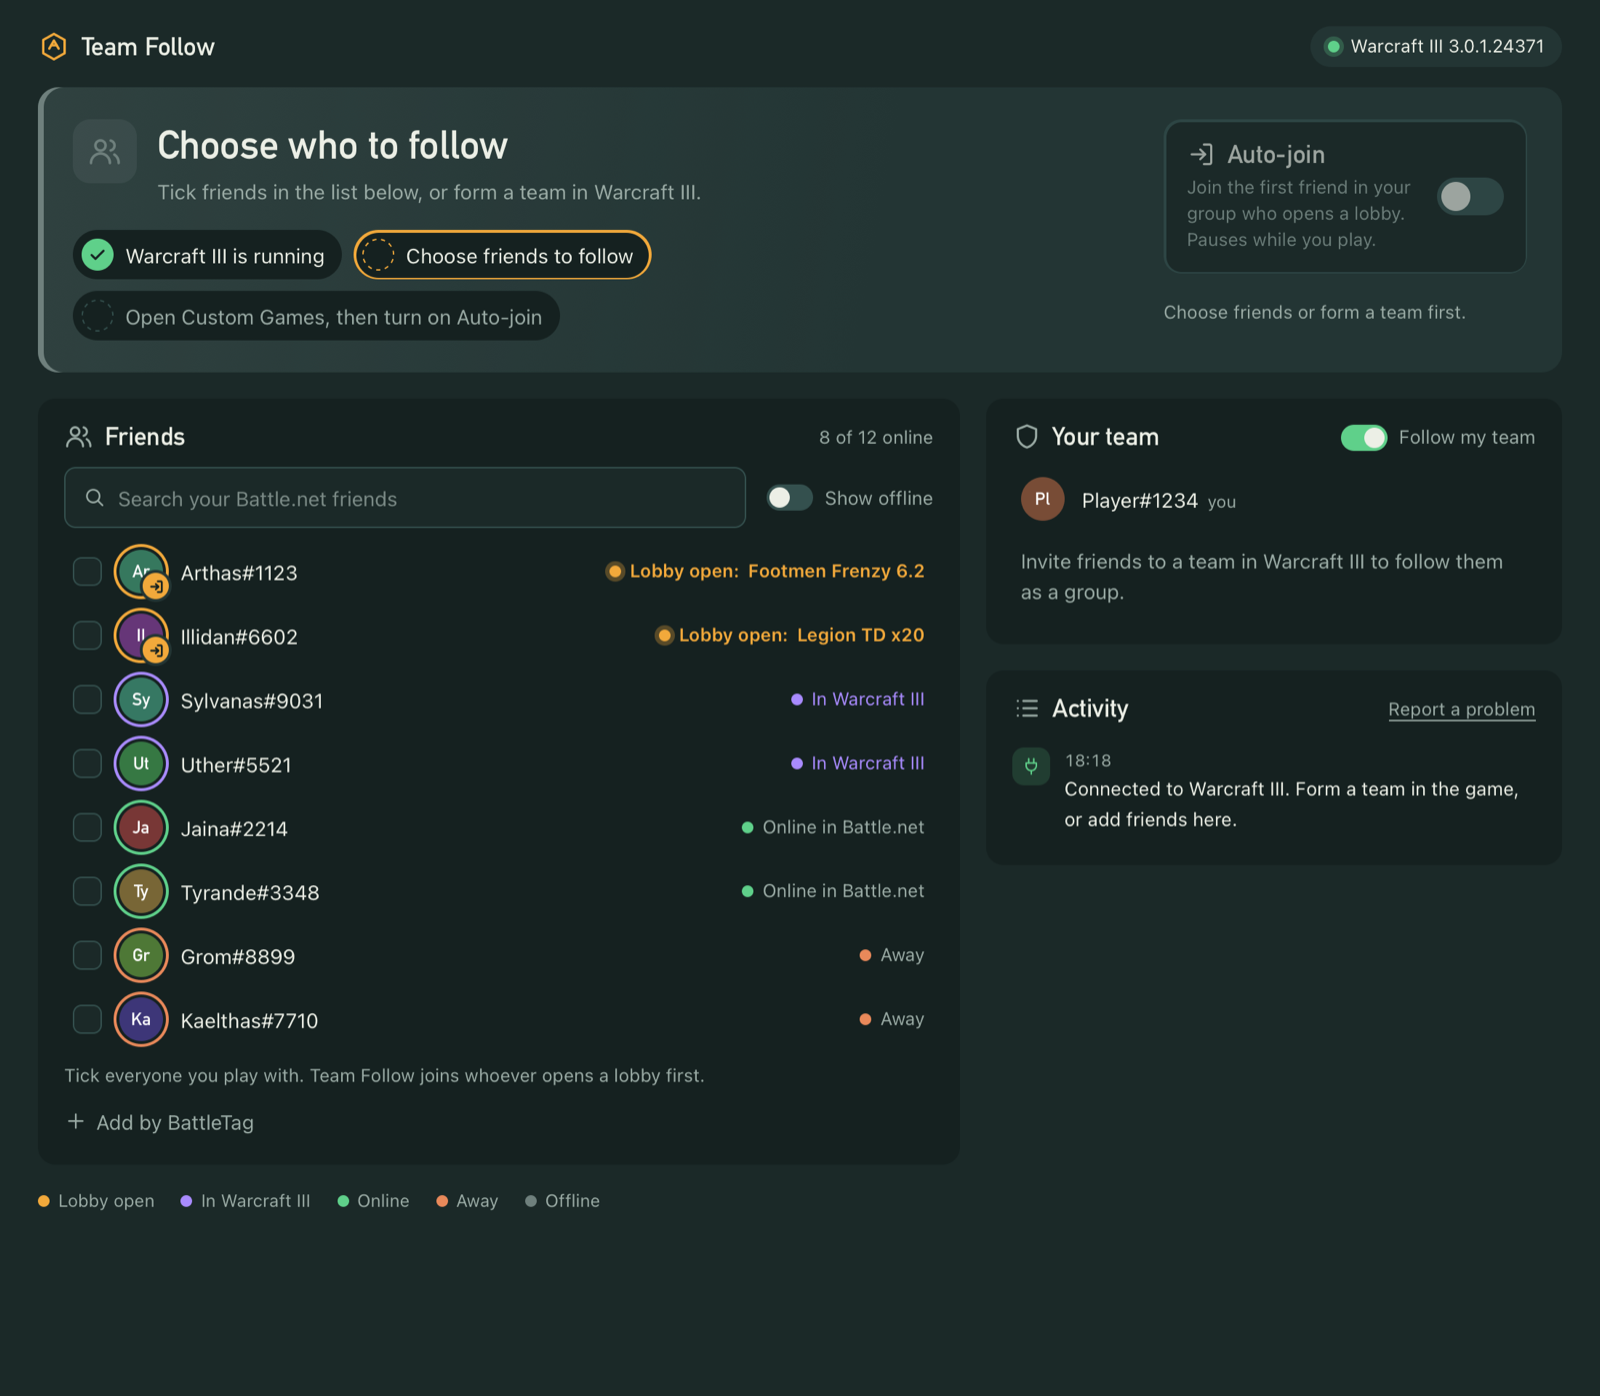
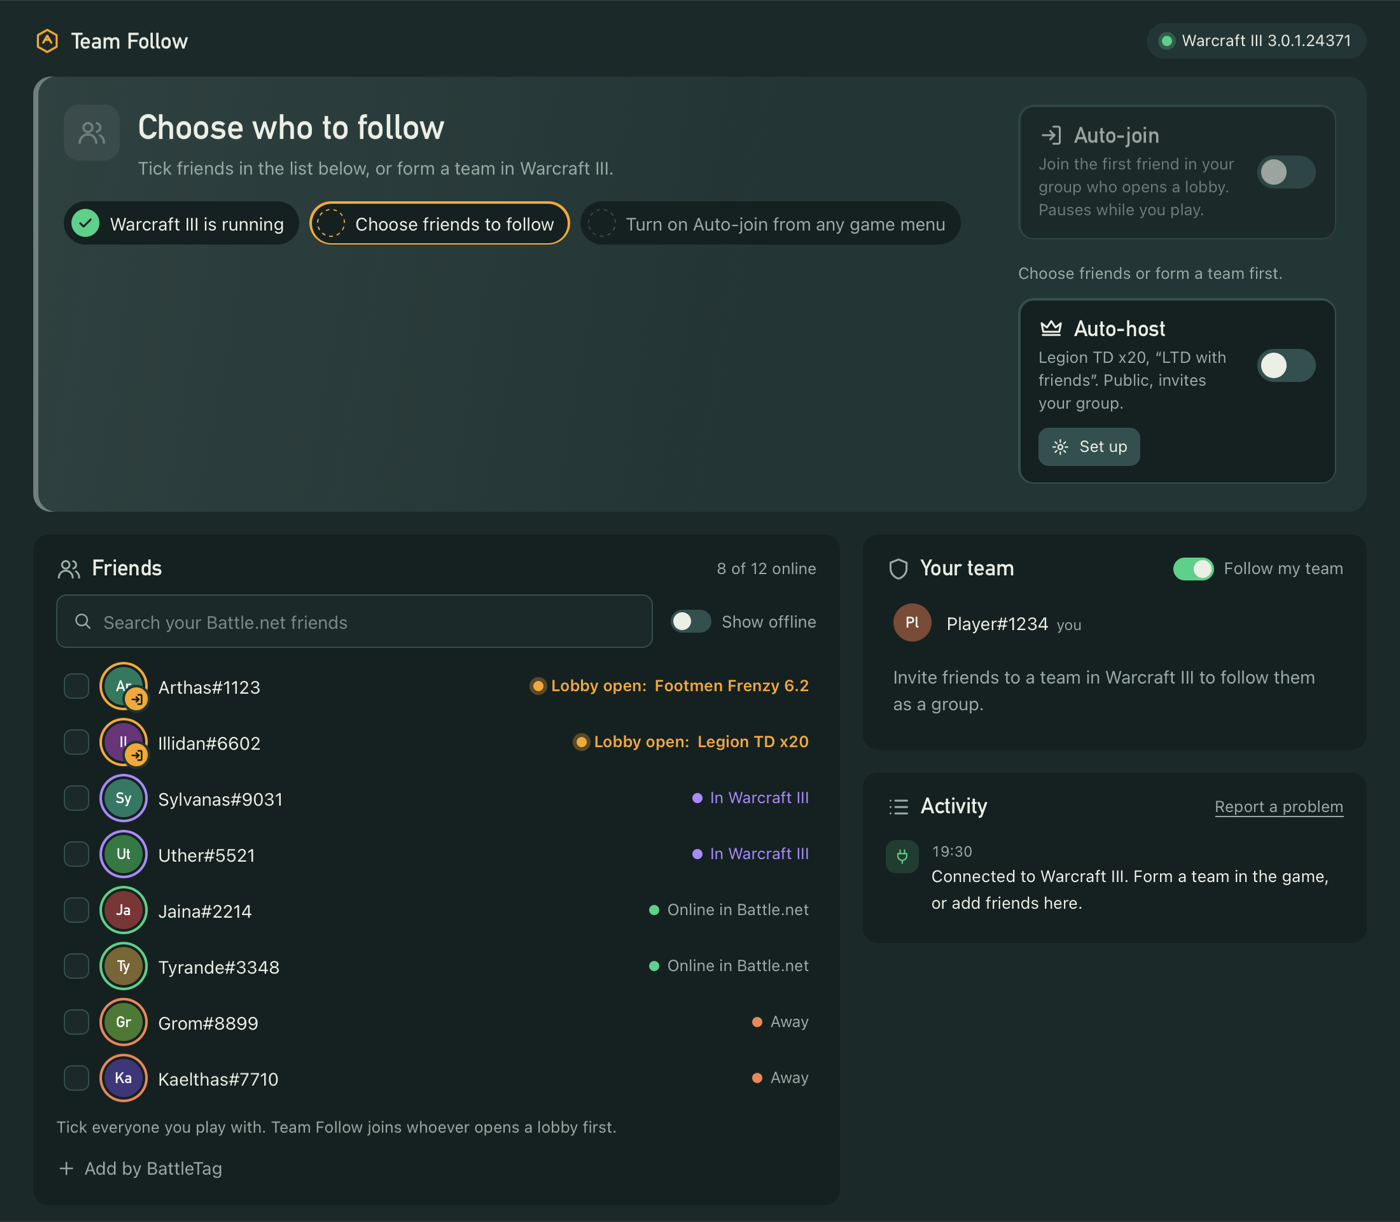
docs: README by feature, with screenshots of every feature
Retakes the existing screenshots and adds Auto-host, its setup, the map
browser and search, the password prompt, the Linux setup hint and Report a
problem, all from the demo page with sample data. The demo page can open
each dialog by URL (?open=...) for this.

diff --git a/cmd/gui/frontend/app.js b/cmd/gui/frontend/app.js
@@ -490,8 +490,40 @@ async function boot() {
   try { render(await bridge.State()); } catch (err) { $('status').textContent = String(err); }
   // The Go side pushes every change; this poll only covers a missed event.
   setInterval(async () => { try { render(await bridge.State()); } catch { /* window closing */ } }, 5000);
+  if (!window.go) demoOpen(new URLSearchParams(location.search).get('open'));
 }
 boot();
+
+// demoOpen opens a dialog in the demo page, for screenshots:
+// ?open=host-setup|maps|maps-search|report.
+async function demoOpen(what) {
+  const wait = ms => new Promise(r => setTimeout(r, ms));
+  switch (what) {
+    case 'host-setup':
+      $('host-setup').click();
+      break;
+    case 'maps':
+    case 'maps-search':
+      $('host-setup').click();
+      await wait(50);
+      $('host-choose-map').click();
+      await wait(150);
+      if (what === 'maps') {
+        document.querySelector('#maps-rows tr')?.click();
+        await wait(100);
+        document.querySelectorAll('#maps-rows tr')[2]?.click();
+      } else {
+        $('maps-search').value = 'legion';
+        $('maps-search').dispatchEvent(new Event('input'));
+        await wait(400);
+        document.querySelector('#maps-rows tr')?.click();
+      }
+      break;
+    case 'report':
+      $('report').click();
+      break;
+  }
+}
 
 /* Auto-host ------------------------------------------------------------- */
 

diff --git a/README.md b/README.md
@@ -1,29 +1,18 @@
 # Warcraft Team Follow
 
-A small desktop companion for **Warcraft III: Reforged** that follows your friends into custom game lobbies. Pick the people you play with from your Battle.net friends (and, if you like, your in-game team). Team Follow watches them and shows when one opens a lobby; turn on **Auto-join** and it joins the first one for you. It pauses while you're in a lobby, a match or a queue, and picks up again when you're back in Custom Games.
+A desktop companion for **Warcraft III: Reforged** that gets you and your friends into the same custom games. Pick the friends you play with and Team Follow watches them; turn on **Auto-join** and it follows whoever opens a lobby first, or turn on **Auto-host** and it creates your lobby on your map and waits for them.
 
-It runs on **Windows (x64)**, **macOS (Apple silicon)** and **Linux (x64, with the game running under Wine or Proton)**. It's a single program: no installer, runtime or game-file changes.
+It runs on **Windows (x64)**, **macOS (Apple silicon)** and **Linux (x64, with the game under Wine or Proton)**. It's a single program: no installer, runtime or game-file changes.
 
 > Unofficial. Not affiliated with or approved by Blizzard Entertainment.
 
 ![Team Follow with Auto-join on, following a group of five friends: one has a lobby open, and the friends list shows who is in Warcraft III, online, away or offline](docs/screenshots/following.png)
 
-<table>
-<tr>
-<td width="50%"><img src="docs/screenshots/first-run.png" alt="First run: a checklist shows the game is connected and asks you to choose friends"></td>
-<td width="50%"><img src="docs/screenshots/watching.png" alt="Watching a group of five friends: one has a lobby open, and the Auto-join switch is off"></td>
-</tr>
-<tr>
-<td>First run: a checklist shows what's left to do.</td>
-<td>Watching: your group's status at a glance, before turning on Auto-join.</td>
-</tr>
-</table>
-
-Screenshots use sample friends. Colours mean the same thing everywhere: amber is a lobby open (and auto-join on), violet is in Warcraft III, green is online, orange is away, grey is offline.
+Screenshots use sample friends and maps. Colours mean the same thing everywhere: **amber** is a lobby open (and Auto-join or Auto-host on), **violet** is in Warcraft III, **green** is online, **orange** is away, **grey** is offline.
 
 ## Download
 
-Get the file for your system from the [latest release](https://github.com/mihaiflorentin/wc3-team-follow/releases):
+Get the file for your system from the [latest release](https://github.com/mihaiflorentin/wc3-team-follow/releases/latest):
 
 | System | File |
 | --- | --- |
@@ -33,32 +22,77 @@ Get the file for your system from the [latest release](https://github.com/mihaif
 
 The [`edge`](https://github.com/mihaiflorentin/wc3-team-follow/releases/tag/edge) pre-release always holds the latest build from `master`.
 
-Each system needs one setup step; see [docs/install.md](docs/install.md).
+Each system needs one setup step so Team Follow may read the game; see [docs/install.md](docs/install.md).
 
-## Using it
+## Features
 
-1. Start Warcraft III through Battle.net. Team Follow connects by itself and shows your team.
-2. Tick the friends you play with in the **Friends** list, which shows your Battle.net friends with live status. You can also keep **Follow my team** on to include your in-game team. Your choice is saved on this computer.
-3. Team Follow now **watches** them: their portraits show who is online or in Warcraft III, and Activity notes when one of them opens a lobby. Watching never joins anything.
-4. To be taken into those lobbies, turn on **Auto-join** while you're on any of the game's menus (main menu, campaigns, profile, Custom Games, and so on). Team Follow then leaves your team and joins the first of them to open a lobby. It pauses while you're in a lobby, a match, a score screen or a queue, and resumes as soon as you're back on a menu. Leave Team Follow running; minimising is fine, and closing it turns Auto-join off.
+### Getting started
 
-**Auto-host** is for the player who hosts. In **Set up**, choose a map from your Maps folder (found automatically; you can pick it yourself too), a lobby name, public or private, map visibility, observers and how long to wait. Turn Auto-host on and Team Follow creates the lobby, then waits for you to press Start in Warcraft III. After each match it creates the next one. Optional switches:
+Start Warcraft III through Battle.net and Team Follow connects by itself. Until everything is ready, a checklist shows what's left: the game running, friends chosen, then Auto-join.
 
-- **Start when full**: starts once every slot is taken and everyone you follow is in, and cancels the start if someone leaves before the countdown locks.
-- **Same team**: moves everyone you follow onto your team.
-- **Auto-invite**: invites people you follow who are in Warcraft III but not in your lobby, for friends without Team Follow.
+![First run: a checklist shows Warcraft III is running and asks you to choose friends](docs/screenshots/first-run.png)
+
+### Choose your friends and watch them
+
+The **Friends** list is your Battle.net friends list, with live status. Search it, show offline friends if you need them, and tick up to 12 people you play with; **Follow my team** adds your in-game team too. Your choice is saved on this computer.
+
+Team Follow watches them straight away: their portraits show who is online, away or in Warcraft III, and Activity notes when one of them opens a lobby. Watching never joins anything.
+
+![Watching a group of five friends: one has a lobby open, Auto-join is off](docs/screenshots/watching.png)
+
+### Auto-join
+
+Turn on **Auto-join** from any of the game's menus. Team Follow then leaves your team and joins the first friend in your group who opens a lobby, exactly as the game's own Join Friend does. It pauses while you're in a lobby, a match, a score screen or a queue, and resumes as soon as you're back on a menu, including straight from the score screen after a match. Change your group while it's on and it carries on with the new group.
+
+### Lobby passwords
+
+If a friend's lobby has a password, Team Follow asks you for it once. It's sent to the game and never saved.
+
+![The game asks for a lobby password; Team Follow shows a password field](docs/screenshots/password.png)
+
+### Auto-host
+
+For the player who hosts. In **Set up**, choose the map, the lobby name, public or private, map visibility, observers and how long to wait before creating the lobby. Every other option uses the game's own Create Game defaults.
+
+![Auto-host setup: map, lobby name, visibility, delay, observers and the Start when full, Same team and Auto-invite switches](docs/screenshots/host-setup.png)
+
+Turn Auto-host on and Team Follow creates the lobby, then waits for you to press Start in Warcraft III. After each match it creates the next one. Three optional switches:
+
+- **Start when full** starts the game once every slot is taken *and* everyone you follow is in. If someone leaves during the countdown it cancels the start, and starts again once the lobby is full again.
+- **Same team** moves everyone you follow onto your team, with the host's own team control.
+- **Auto-invite** invites the people you follow who are in Warcraft III but not in your lobby, for friends who don't run Team Follow.
+
+![A hosted lobby is open: 3 of 6 slots taken, waiting for two friends, moving one to your team](docs/screenshots/auto-host.png)
 
 Auto-host and Auto-join are one at a time: turning one on turns the other off.
 
-If a lobby asks for a password, Team Follow asks you for it once and never saves it. If something goes wrong, **Report a problem** gives you a report to copy and opens the folder with Team Follow's log files; send both (see [docs/install.md](docs/install.md#reporting-a-problem)).
+### Map browser
 
-How following decides what to join, and when it pauses, is described in [docs/follow-behaviour.md](docs/follow-behaviour.md).
+**Choose map** opens your Maps folder, found automatically on every system, including Wine and Proton prefixes on Linux. You can always pick it yourself with **Change folder**. Browse folders with the breadcrumb, sort by **Map name** or **Date** by clicking the column headers, or search every folder at once.
+
+![The map browser in the Download folder, sorted by name, with a map selected](docs/screenshots/map-browser.png)
+
+![Searching all maps for "legion": results from every folder, each with the folder it's in](docs/screenshots/map-search.png)
+
+### Setup help
+
+When the system blocks Team Follow from reading the game (Linux and macOS each need one permission step), it says so and shows the exact command, with a Copy button.
+
+![Linux setup: Team Follow shows the setcap command needed to read the game, with a Copy button](docs/screenshots/linux-setup.png)
+
+### Report a problem
+
+**Report a problem** shows a diagnostic report to copy and opens the folder with Team Follow's log files. The report has no names or BattleTags; the logs include BattleTags and lobby names but never passwords or the game's session. See [docs/install.md](docs/install.md#reporting-a-problem).
+
+![Report a problem: a diagnostic report, the log folder's path, and Open log folder and Copy report buttons](docs/screenshots/report.png)
 
 ## Privacy and safety
 
-Team Follow talks only to the game's own local menu service on `127.0.0.1`. To connect, it reads the game's local menu session identifier from the game process. It never writes to the game, injects code, or looks for account credentials. The session identifier stays in memory and is never logged, shown or saved. Commands are limited to an allowlist of six menu commands the game's own Join Friend feature uses.
+Team Follow talks only to the game's own local menu service on `127.0.0.1`. To connect, it reads the game's local menu session identifier from the game process. It never writes to the game, injects code or looks for account credentials, and the session identifier is never logged, shown or saved.
 
-Live joining is enabled only on game builds that have been checked by hand (`[follow] verified_builds` in `config/config.toml`). On other builds Team Follow still watches, but Auto-join stays off.
+It sends only an allowlist of commands, each one the game's own menu sends for the same purpose: Join Friend's commands for Auto-join, and Create Game's create button, the host's Start/Cancel and team controls and the friends list's Invite to game for Auto-host. Nothing starts a match unless the host turned on Start when full.
+
+Joining and hosting are enabled only on game builds that have been checked by hand (`[follow] verified_builds` in `config/config.toml`). On other builds Team Follow still watches, but Auto-join and Auto-host stay off.
 
 ## Development
 
@@ -66,17 +100,17 @@ Live joining is enabled only on game builds that have been checked by hand (`[fo
 make test       # all unit tests
 make build      # build the app for this computer into bin/
 ./bin/wc3-team-follow             # open the window
-./bin/wc3-team-follow discover    # check that the running game can be found
+./bin/wc3-team-follow discover    # find the running game and the Maps folders
 ```
 
-Building the window needs cgo on macOS (Xcode command line tools) and Linux (`libgtk-3-dev libwebkit2gtk-4.1-dev`); Windows cross-compiles with `make package-windows-amd64`. See [docs/getting-started.md](docs/getting-started.md).
+Building the window needs cgo on macOS (Xcode command line tools) and Linux (`libgtk-3-dev libwebkit2gtk-4.1-dev`); Windows cross-compiles with `make package-windows-amd64`. Pushing a tag such as `v1.2.3` builds all three and publishes a release. See [docs/getting-started.md](docs/getting-started.md) and [docs/ci.md](docs/ci.md).
 
 Documentation:
 
 - [AGENTS.md](AGENTS.md): the rules every change keeps.
 - [docs/architecture.md](docs/architecture.md): layers, the companion loop and game discovery on each OS.
-- [docs/follow-behaviour.md](docs/follow-behaviour.md): the follow state machine.
-- [docs/install.md](docs/install.md): per-OS setup for players.
+- [docs/follow-behaviour.md](docs/follow-behaviour.md): watching, Auto-join and Auto-host in detail.
+- [docs/install.md](docs/install.md): per-OS setup, the Maps folder, and reporting problems.
 - [docs/getting-started.md](docs/getting-started.md), [docs/container.md](docs/container.md), [docs/data-contracts.md](docs/data-contracts.md), [docs/coding-style.md](docs/coding-style.md), [docs/logging.md](docs/logging.md), [docs/ci.md](docs/ci.md), [docs/adr/](docs/adr/).
 
 ## License

diff --git a/docs/getting-started.md b/docs/getting-started.md
@@ -44,7 +44,8 @@ Serve `cmd/gui/frontend` with any static server and open it in a browser. Outsid
 
 ```bash
 python3 -m http.server 8000 --directory cmd/gui/frontend
-# http://localhost:8000/?scene=watching   (first, live, paused, password, waiting, linux, unverified)
+# http://localhost:8000/?scene=watching   (first, live, paused, password, waiting, linux, unverified,
+#                                         host-waiting, host-lobby); add &open=host-setup|maps|maps-search|report
 ```
 
 ## Trying discovery without the game
@@ -53,4 +54,19 @@ python3 -m http.server 8000 --directory cmd/gui/frontend
 
 ## Screenshots
 
-`docs/screenshots/` holds the README images, taken from the demo scenes `live` (saved as `following.png`), `watching` and `first` (`first-run.png`) at 1100×960, rendered at 2× and scaled to 1600 px wide. On macOS they were rendered with an offscreen `WKWebView`, the same engine the macOS app uses. Retake them after visible interface changes.
+`docs/screenshots/` holds the README images, one per feature, taken from the demo page at 1100×960, rendered at 2× and scaled to 1400 px wide. Retake them after visible interface changes. On macOS they were rendered with an offscreen `WKWebView` (the engine the macOS app uses) with CSS transitions turned off, since an offscreen window doesn't run them.
+
+| File | Demo URL |
+| --- | --- |
+| `following.png` | `?scene=live` |
+| `watching.png` | `?scene=watching` |
+| `first-run.png` | `?scene=first` |
+| `auto-host.png` | `?scene=host-lobby` |
+| `host-setup.png` | `?scene=watching&open=host-setup` |
+| `map-browser.png` | `?scene=watching&open=maps` |
+| `map-search.png` | `?scene=watching&open=maps-search` |
+| `password.png` | `?scene=password` |
+| `linux-setup.png` | `?scene=linux` |
+| `report.png` | `?scene=live&open=report` |
+
+The demo page only uses sample friends and maps; keep it that way, since the images are public.
